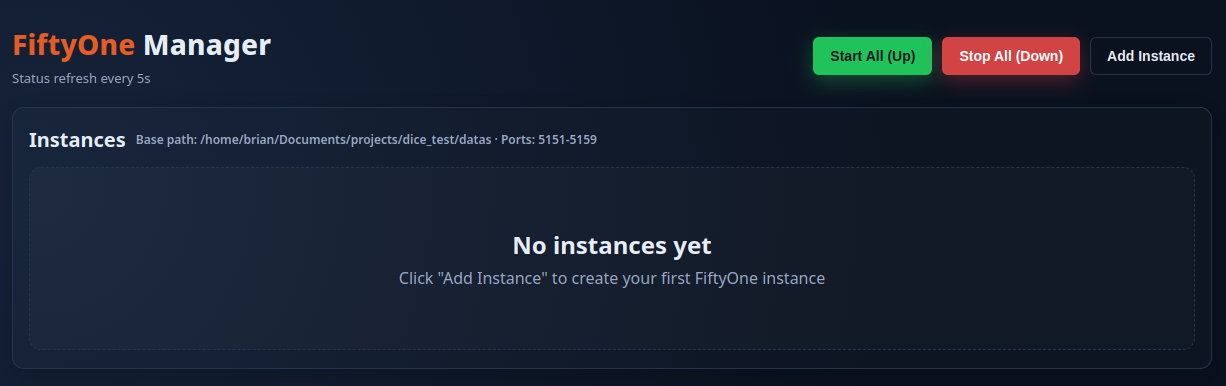
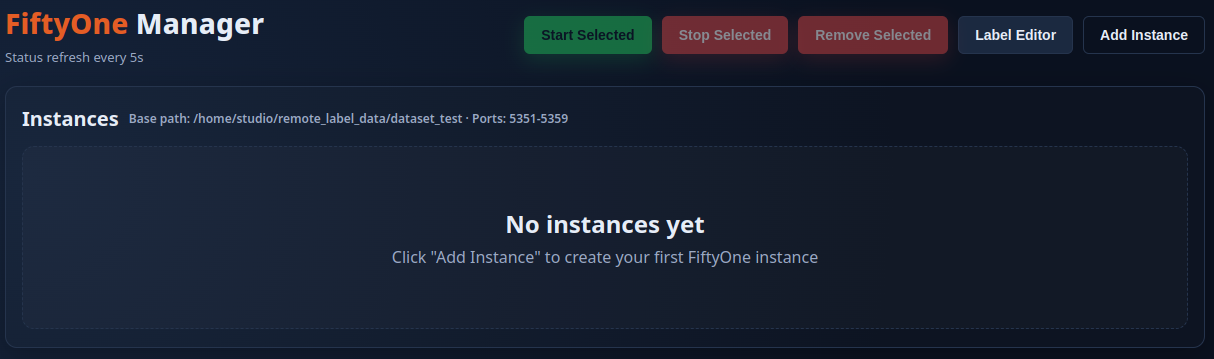
docs: update Traditional Chinese user manual with new features
- Add OBB (Oriented Bounding Box) rotation annotation support
- Document batch operations and Label Editor dialog
- Add image deletion workflow with screenshots
- Expand keyboard shortcuts and multi-selection features
- Update filter images section and editor interface details
- Add new tutorial screenshots for instance management
- Rename IoU threshold to duplicate threshold with updated defaults

diff --git a/doc/USER_MANUAL_ZH_TW.md b/doc/USER_MANUAL_ZH_TW.md
@@ -25,7 +25,7 @@ FiftyOne Manager 提供以下功能：
 
 在瀏覽器開啟管理介面（向系統管理員取得網址）：
 ```
-http://192.168.20.178:5050
+http://192.168.20.9:5050
 ```
 ![系統首頁](images/01_overview.png)
 ---
@@ -36,6 +36,7 @@ http://192.168.20.178:5050
 
 1. 點擊 **「+ 新增實例」**(+ Add Instance)
 ![新增實例](images/02_add_instance.png)
+![新增實例 - 進階設定](images/02_add_instance-2.png)
 2. 填寫必要資訊：
 
 | 欄位 | 說明 | 範例 |
@@ -43,10 +44,12 @@ http://192.168.20.178:5050
 | **實例名稱** (Instance Name) | 給實例取一個容易辨識的名字。只能使用英文、數字、底線和連字號。名稱不可重複。 | `骰子資料集_1106`<br>`dice_test_001` |
 | **連接埠** (Port) | FiftyOne 服務運行的埠號。系統會自動建議可用的埠號（通常是 5151-5160）。每個實例需要不同的埠號。 | `5151`<br>`5152` |
 | **資料集路徑** (Dataset Path) | 資料集所在的完整路徑。必須包含 `images/` 和 `labels/` 兩個子資料夾。可以點擊「瀏覽」(Browse) 按鈕選擇，或手動輸入絕對路徑。 | `/data/datasets/dice/1106`<br>`/home/user/datasets/mydata` |
-| **類別檔案** (Class File) | 定義物件類別名稱的文字檔。每行一個類別名稱，順序對應類別 ID（從 0 開始）。可選填，若不指定則使用預設類別。 | `classes.txt`<br>`dice_classes.txt` |
-| **IoU 閾值** (IoU Threshold) | 去重檢測的相似度標準（0.0-1.0）。數值越高越嚴格，只有非常相似的才算重複。<br>• **0.8**（建議）：平衡設定<br>• **0.9**：嚴格<br>• **0.7**：寬鬆 | `0.8` |
+| **類別檔案** (Class File) | 定義物件類別名稱的文字檔。每行一個類別名稱，順序對應類別 ID（從 0 開始）。可選填，若不指定則使用預設類別。選擇後會顯示預覽。 | `classes.txt`<br>`dice_classes.txt` |
+| **重複閾值** (Duplicate Threshold) | 去重檢測的相似度標準（0.0-1.0）。數值越低越嚴格，只有非常相似的才算重複。 | `0.25` |
 | **除錯模式** (Debug Mode) | 開啟後，重複圖片會依群組分類到不同資料夾。關閉時，所有重複圖片會放在同一個資料夾。一般使用者建議關閉。 | ☐ 不勾選（預設） |
-| **CVAT 同步** (CVAT Sync) | 是否自動建立 CVAT 專案。需要系統管理員先設定 CVAT 伺服器連線。一般使用者建議關閉。 | ☐ 不勾選（預設） |
+| **自動同步標籤** (Auto Sync Labels) | 在標籤編輯器儲存時，自動同步標籤到 FiftyOne。 | ☑ 勾選（建議） |
+| **OBB 格式** (OBB Format) | 將 YOLO 邊界框轉換為 OBB 格式（4 個點，從左上角順時針排列）。適用於旋轉標註。 | ☑ 勾選（如需旋轉標註） |
+| **OBB 建立模式** (OBB Creation Mode) | 建立 OBB 標註的方式：<br>• **Rectangle (Drag)** - 拖曳繪製矩形<br>• **Polygon (4 Points)** - 點擊 4 個點繪製多邊形 | `Rectangle (Drag)` |
 
 ### 資料集結構要求
 
@@ -64,13 +67,30 @@ http://192.168.20.178:5050
 
 ### 啟動與操作
 
-- **啟動** (Start) - 載入資料集並執行去重檢測
-- **開啟** (Open) - 在新分頁開啟 FiftyOne
-- **日誌** (Logs) - 查看運行狀態和錯誤訊息
-- **停止** (Stop) - 關閉實例
-- **重新啟動** (Restart) - 重啟實例
-- **編輯** (Edit) - 修改設定（需先停止）
-- **刪除** (Delete) - 移除實例（不會刪除資料集檔案）
+**頂部工具列（批次操作）**：
+- **Start Selected** - 啟動選取的實例
+- **Stop Selected** - 停止選取的實例
+- **Remove Selected** - 移除選取的實例（不會刪除資料集檔案）
+- **Label Editor** - 開啟標籤編輯器資料集選擇視窗
+- **Add Instance** - 新增實例
+
+**Label Editor Datasets 視窗**：
+
+點擊 **Label Editor** 按鈕後會開啟資料集選擇視窗，顯示所有可用的實例：
+- 每個實例會顯示名稱、狀態、資料集路徑和連接埠
+- **Open Label Editor** - 直接開啟該實例的標籤編輯器
+- **Copy URL** - 複製標籤編輯器的 URL 到剪貼簿
+
+💡 **提示**：若只需使用標籤編輯器，實例不需要啟動。標籤編輯器可獨立運作，無需 FiftyOne 服務。
+
+![標籤編輯器資料集選擇](images/03_label_editor_dialog.png)
+
+**實例操作按鈕**：
+- **Restart** - 重新啟動實例
+- **Stop** - 停止實例
+- **Open** - 在新分頁開啟 FiftyOne
+- **Open Editor** - 開啟標籤編輯器
+- **Logs** - 查看運行狀態和錯誤訊息
 
 ![FiftyOne 介面](images/03_fiftyone.png)
 
@@ -99,6 +119,38 @@ http://192.168.20.178:5050
 - `ESC` 返回網格檢視
 - 滾輪縮放圖片
 
+### 刪除圖片
+
+**步驟 1：選取圖片**
+
+在網格檢視中，點擊圖片左上角的方框來選取圖片（會顯示橘色勾選）。可以選取多張圖片。
+
+![選取圖片](images/04_delete_samples.png)
+
+**步驟 2：開啟操作選單**
+
+點擊工具列上的選單按鈕（三條橫線圖示），或按 `` ` `` 鍵開啟操作選單。
+
+![開啟操作選單](images/04_delete_samples_menu.png)
+
+**步驟 3：搜尋刪除功能**
+
+在搜尋框輸入 `delete`，然後選擇 **Delete Samples (Permanent)**。
+
+![搜尋刪除功能](images/04_delete_samples_search.png)
+
+**步驟 4：確認刪除**
+
+系統會顯示警告對話框：
+- 顯示將刪除的樣本數量和資料集名稱
+- 勾選 **I understand this will permanently delete files from disk** 確認刪除
+- 可選：勾選 **Delete label files only (keep images)** 只刪除標籤檔案
+- 點擊 **Execute** 執行刪除
+
+![確認刪除對話框](images/04_delete_samples_confirm.png)
+
+⚠ **注意**：此操作會永久刪除圖片和對應的標籤檔案，無法復原。
+
 ### 篩選功能
 
 使用側邊欄篩選：
@@ -122,6 +174,28 @@ http://192.168.20.178:5050
 ---
 
 ## 編輯標籤
+
+### 啟用 OBB 格式（旋轉標註）
+
+如需使用 OBB（Oriented Bounding Box）旋轉標註功能，需先在實例設定中啟用：
+
+**步驟 1：停止實例**
+
+若實例正在運行，必須先點擊 **Stop** 按鈕停止實例。
+
+![停止實例](images/10_stop_instance.png)
+
+**步驟 2：編輯實例設定**
+
+點擊實例的編輯按鈕，勾選 **OBB Format (Polygon)** 選項，然後點擊 **Save Instance** 儲存。
+
+![啟用 OBB 格式](images/10_obb_enable.png)
+
+**步驟 3：重新啟動實例**
+
+儲存後重新啟動實例，編輯器即可使用 OBB 旋轉標註功能。
+
+⚠ **注意**：啟用 OBB 格式後，所有標註將轉換為 4 點格式。此操作會修改標籤檔案格式。
 
 ### 開啟編輯器
 
@@ -155,20 +229,53 @@ FiftyOne 會顯示一個訊息框，包含編輯器 URL 和圖片資訊。請複
 ![編輯器介面](images/09_editor.png)
 
 編輯器包含以下區域：
-- **頂部工具列**：Previous/Next/Reload/Save Labels 按鈕
-- **中央畫布**：圖片和標註框
-- **右側面板**：Select Class 和 Annotations 列表
-- **底部**：圖片縮圖列表
+
+**頂部工具列**：
+- **← Previous / Next →** - 切換上一張/下一張圖片
+- **圖片計數** - 顯示當前圖片位置（例如：45 / 479）
+- **Reload** - 重新載入當前圖片
+- **Save Labels** - 儲存標籤變更
+
+**右側面板**：
+
+| 區域 | 功能 |
+|------|------|
+| **Filter Images** | 篩選圖片功能（點擊展開） |
+| **Image Info** | 顯示檔名和圖片尺寸 |
+| **OBB Creation Mode** | 顯示當前 OBB 建立模式（Rectangle Drag 或 4-Point Polygon） |
+| **Display** | 調整標註線寬（Line Width 滑桿） |
+| **Select Class** | 類別選擇按鈕，點擊可變更選取標註的類別 |
+| **Annotations** | 標註列表，顯示每個標註的類別和刪除按鈕 |
+
+**中央畫布**：圖片和標註框
+
+**底部縮圖列表**：
+- 顯示所有圖片的縮圖，點擊可跳轉
+- 支援排序（Name A-Z）和搜尋
+
+### 篩選圖片
+
+展開 **Filter Images** 面板可使用以下篩選條件：
+
+| 篩選條件 | 說明 |
+|----------|------|
+| **Filename** | 依檔名關鍵字篩選 |
+| **Class Filter** | 依類別篩選（Any Class / Only Selected / Exclude Selected） |
+| **Label Count** | 依標籤數量篩選（Min / Max） |
+
+點擊 **Clear All Filters** 可清除所有篩選條件。
 
 ### 編輯操作
 
 **新增標註**：
-1. 選擇類別
-2. 在圖片上拖曳繪製邊界框
-3. 調整位置和大小
+1. 在右側面板選擇類別
+2. 在圖片上拖曳繪製邊界框（Rectangle 模式）或點擊 4 個點（4-Point 模式）
+3. 系統會自動將點位排列為順時針順序
 
 **刪除標註**：
-點擊右側標註列表中的紅色 **Delete** 按鈕
+- 選取標註後按 `Delete` 鍵
+- 或點擊右側 Annotations 列表中的紅色 **Delete** 按鈕
+- 支援多選刪除（框選多個標註後按 `Delete`）
 
 **修改類別**：
 1. 先點擊標註選中它（邊界框會變粗）
@@ -178,27 +285,57 @@ FiftyOne 會顯示一個訊息框，包含編輯器 URL 和圖片資訊。請複
 **調整邊界框**：
 選中標註後，拖曳邊界框的**角落**或**邊緣**來調整大小
 
-⚠ **注意**：邊界框無法直接拖曳移動位置，只能調整大小。如需移動，請刪除後重新繪製。
+**旋轉標註（OBB 模式）**：
+- 選取標註後，使用 `Q` 鍵逆時針旋轉、`E` 鍵順時針旋轉
+- 或拖曳標註上方的旋轉控制點
+- 支援多選旋轉（框選多個標註後旋轉）
+
+**移動標註**：
+選中標註後，直接拖曳邊界框即可移動位置
+
+**多選操作**：
+- 按住 `Shift` 並拖曳滑鼠可框選多個標註
+- 使用 `Ctrl+Click` 可逐一加入選取
+- 使用 `Ctrl+A` 全選所有標註
+- 框選後可同時移動、刪除、旋轉或變更類別
+
+![Shift 框選示範](images/09_shiftselect.gif)
 
 ### 儲存變更
 
-1. 點擊頂部右側的藍色 **Save Labels** 按鈕
+點擊頂部右側的藍色 **Save Labels** 按鈕儲存變更。
 
-⚠ **注意**：`Ctrl+S` 會觸發瀏覽器的「儲存網頁」功能，請使用滑鼠點擊 **Save Labels** 按鈕。
-⚠ **注意**：FiftyOne 不會即時自動更新標籤檔，修改後沒有立即反映是正常的。
-
-**其他頂部按鈕**：
-- **← Previous** - 切換到上一張圖片
-- **Next →** - 切換到下一張圖片
-- **Reload** - 重新載入當前圖片
+⚠ **注意**：
+- `Ctrl+S` 會觸發瀏覽器的「儲存網頁」功能，請使用滑鼠點擊 **Save Labels** 按鈕
+- FiftyOne 不會即時自動更新標籤檔，修改後沒有立即反映是正常的
+- 若啟用「自動同步標籤」，儲存後會自動同步到 FiftyOne
 
 ### 快速鍵
 
+**導航與類別**：
+
 | 按鍵 | 功能 |
 |------|------|
+| `A` 或 `←` | 上一張圖片 |
+| `D` 或 `→` | 下一張圖片 |
 | `W` | 切換到上一個類別 |
 | `S` | 切換到下一個類別 |
-| `Delete` | 刪除標籤 |
+
+**編輯操作**：
+
+| 按鍵 | 功能 |
+|------|------|
+| `Ctrl+A` | 全選所有標註 |
+| `Ctrl+C` | 複製選取的標註 |
+| `Ctrl+V` | 貼上標註 |
+| `Ctrl+Z` | 復原 |
+| `Ctrl+Shift+Z` | 重做 |
+| `Ctrl+S` | 儲存標籤 |
+| `Ctrl+Click` | 多選標註 |
+| `Q` | 逆時針旋轉選取的標註（5°） |
+| `E` | 順時針旋轉選取的標註（5°） |
+| `Delete` 或 `Backspace` | 刪除選取的標註 |
+| `Escape` | 取消目前操作（繪製、框選） |
 
 ---
 
